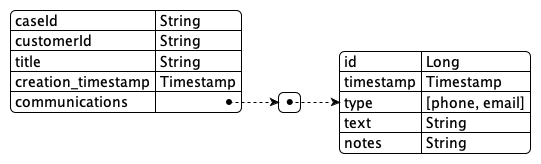
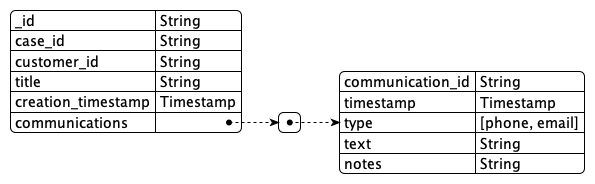
improved documentation

Changed region(s): [[0.0, 0.0305, 1.0, 0.9756]]

diff --git a/README.md b/README.md
@@ -32,6 +32,8 @@ Contact Center (Mongo DB - BSON)
 
 ![Contact Center](doc/data-definition-contact-center.png)
 
+See: [source](schemas/contact-center.json)
+
 Core Banking (Postgresql - DDL)
 
 ![Core Banking](doc/data-definition-core-banking.png)
